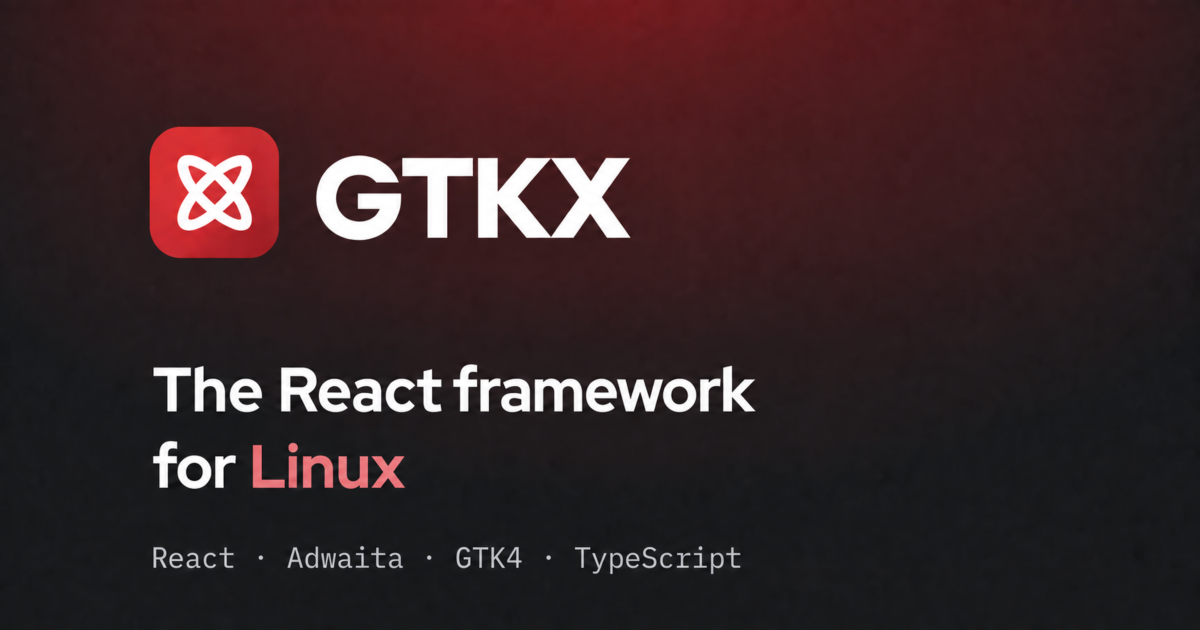
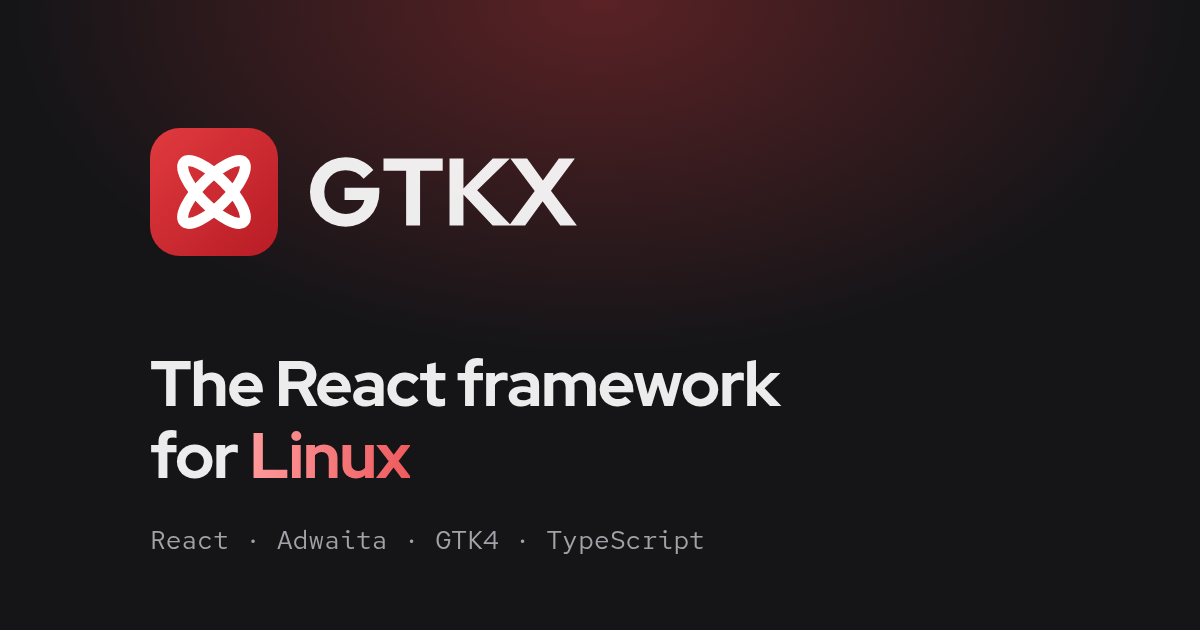
Ship wordmark lockup, glyph, contrast-safe gradient and heading weights

diff --git a/website/.vitepress/theme/landing/Footer.vue b/website/.vitepress/theme/landing/Footer.vue
@@ -20,6 +20,7 @@ const cols: { h: string; items: Link[] }[] = [
         items: [
             { t: "GitHub", href: REPO_URL },
             { t: "Contributing", href: "/contributing/" },
+            { t: "Brand", href: "/contributing/documentation#brand-assets" },
             { t: "Examples", href: EXAMPLES_URL },
             { t: "Issues", href: `${REPO_URL}/issues` },
             { t: "Releases", href: `${REPO_URL}/releases` },
@@ -54,8 +55,20 @@ const cols: { h: string; items: Link[] }[] = [
             <div class="footer__grid">
                 <div class="footer__brand">
                     <div class="footer__lockup">
-                        <img src="/gtkx-mark.svg" width="32" height="32" alt="" />
-                        <span class="footer__word">GTKX</span>
+                        <img
+                            class="footer__logo footer__logo--light"
+                            src="/logo-wordmark-light.svg"
+                            width="107"
+                            height="32"
+                            alt="GTKX"
+                        />
+                        <img
+                            class="footer__logo footer__logo--dark"
+                            src="/logo-wordmark-dark.svg"
+                            width="107"
+                            height="32"
+                            alt="GTKX"
+                        />
                     </div>
                     <p class="footer__tag">The React framework for Linux. Free &amp; open source.</p>
                 </div>
@@ -96,17 +109,17 @@ const cols: { h: string; items: Link[] }[] = [
   gap: 2rem;
 }
 .footer__lockup {
-  display: flex;
-  align-items: center;
-  gap: 0.6rem;
   margin-bottom: 1rem;
 }
-.footer__word {
-  font-family: var(--font-display);
-  font-weight: 900;
-  font-size: 1.3rem;
-  letter-spacing: -0.03em;
-  color: var(--text-1);
+.footer__logo {
+  display: block;
+}
+.footer__logo--dark,
+html.dark .footer__logo--light {
+  display: none;
+}
+html.dark .footer__logo--dark {
+  display: block;
 }
 .footer__tag {
   font-family: var(--font-body);

diff --git a/website/.vitepress/theme/styles/tokens.css b/website/.vitepress/theme/styles/tokens.css
@@ -62,7 +62,7 @@
     --syntax-comment: var(--text-3);
 
     --gradient-glow: radial-gradient(60% 60% at 50% 0%, rgba(224, 58, 62, 0.28) 0%, rgba(224, 58, 62, 0) 70%);
-    --gradient-text: linear-gradient(92deg, #ff7a7c 0%, #e03a3e 55%, #b81c25 100%);
+    --gradient-text: linear-gradient(92deg, #e03a3e 0%, #971018 100%);
 
     --font-display: "Red Hat Display", system-ui, -apple-system, "Segoe UI", sans-serif;
     --font-body: "Red Hat Text", system-ui, -apple-system, "Segoe UI", sans-serif;
@@ -140,6 +140,7 @@ html.dark {
     --syntax-string: var(--green-500);
 
     --gradient-glow: radial-gradient(60% 60% at 50% 0%, rgba(224, 58, 62, 0.34) 0%, rgba(224, 58, 62, 0) 70%);
+    --gradient-text: linear-gradient(92deg, #ff9a9c 0%, #ee5a5d 100%);
 
     --shadow-sm: 0 1px 3px rgba(0, 0, 0, 0.5);
     --shadow-md: 0 6px 18px rgba(0, 0, 0, 0.5);

diff --git a/website/.vitepress/config.ts b/website/.vitepress/config.ts
@@ -655,8 +655,8 @@ export default defineConfig({
     },
 
     themeConfig: {
-        siteTitle: title,
-        logo: "/gtkx-mark.svg",
+        siteTitle: false,
+        logo: { light: "/logo-wordmark-light.svg", dark: "/logo-wordmark-dark.svg", alt: "GTKX" },
         search: {
             provider: "local",
             options: {

diff --git a/website/.vitepress/theme/landing/Workflow.vue b/website/.vitepress/theme/landing/Workflow.vue
@@ -200,7 +200,7 @@ const SCAFFOLD = `${CREATE_COMMAND}\ncd my-app\nnpm run dev`;
   width: 7px;
   height: 7px;
   border-radius: 2px;
-  background: var(--brand);
+  background: var(--brand-strong);
 }
 .step__list b {
   color: var(--text-1);

diff --git a/website/.vitepress/theme/styles/vp.css b/website/.vitepress/theme/styles/vp.css
@@ -119,6 +119,12 @@ html.dark {
     font-family: var(--font-display);
 }
 
+.vp-doc h1,
+.vp-doc h2 {
+    font-weight: 700;
+    letter-spacing: -0.02em;
+}
+
 .VPSidebarItem .text {
     overflow-wrap: anywhere;
 }

diff --git a/website/contributing/documentation.md b/website/contributing/documentation.md
@@ -65,6 +65,21 @@ Place the figure where the text says what the reader should see. Its two images 
 
 Set `width` and `height` to half the PNG's pixel size, and describe the window in `alt`. Keep the attributes in this order: the site links each image wider than 400 to the PNG, so phone readers can open it at full size.
 
+## Brand assets
+
+The mark and the wordmark live in `website/public/`. Use these files instead of setting the name in text next to the mark.
+
+| File                                                | Use                                                                                                                                                                   |
+| --------------------------------------------------- | --------------------------------------------------------------------------------------------------------------------------------------------------------------------- |
+| `gtkx-mark.svg`                                     | The red tile: favicon, app icons, avatars. Never recolor it.                                                                                                          |
+| `logo-wordmark-light.svg`, `logo-wordmark-dark.svg` | The mark followed by "GTKX" in Red Hat Display 800, as outlines, for light and dark backgrounds. The site's navigation and footer, the README, and `og.png` use them. |
+| `gtkx-glyph.svg`                                    | The orbits without the tile, in `currentColor`, for single-color and small inline uses.                                                                               |
+
+- Leave clear space of at least one orbit width (11/128 of the tile, at least 4px) around the mark.
+- Don't set the wordmark in another typeface, in the gradient, or in red.
+- Don't place the red tile on a red or photographic background; use the glyph instead.
+- Red text uses `--text-brand`, and the large headline accent uses `--gradient-text`, which has a light and a dark value (`website/.vitepress/theme/styles/tokens.css`). Keep `--brand` for the mark, the glow, focus rings, and other non-text accents.
+
 ## Documentation versions
 
 [`website/versions.json`](https://github.com/gtkx-org/gtkx/blob/main/website/versions.json) defines each documented version:

diff --git a/README.md b/README.md
@@ -1,8 +1,9 @@
-<p align="center">
-  <img src="https://raw.githubusercontent.com/gtkx-org/gtkx/main/logo.svg" alt="GTKX" width="100" />
-</p>
-
-<h1 align="center">GTKX</h1>
+<h1 align="center">
+  <picture>
+    <source media="(prefers-color-scheme: dark)" srcset="https://raw.githubusercontent.com/gtkx-org/gtkx/main/website/public/logo-wordmark-dark.svg" />
+    <img src="https://raw.githubusercontent.com/gtkx-org/gtkx/main/website/public/logo-wordmark-light.svg" alt="GTKX" width="214" height="64" />
+  </picture>
+</h1>
 
 <p align="center">
   The React framework for Linux<br />
